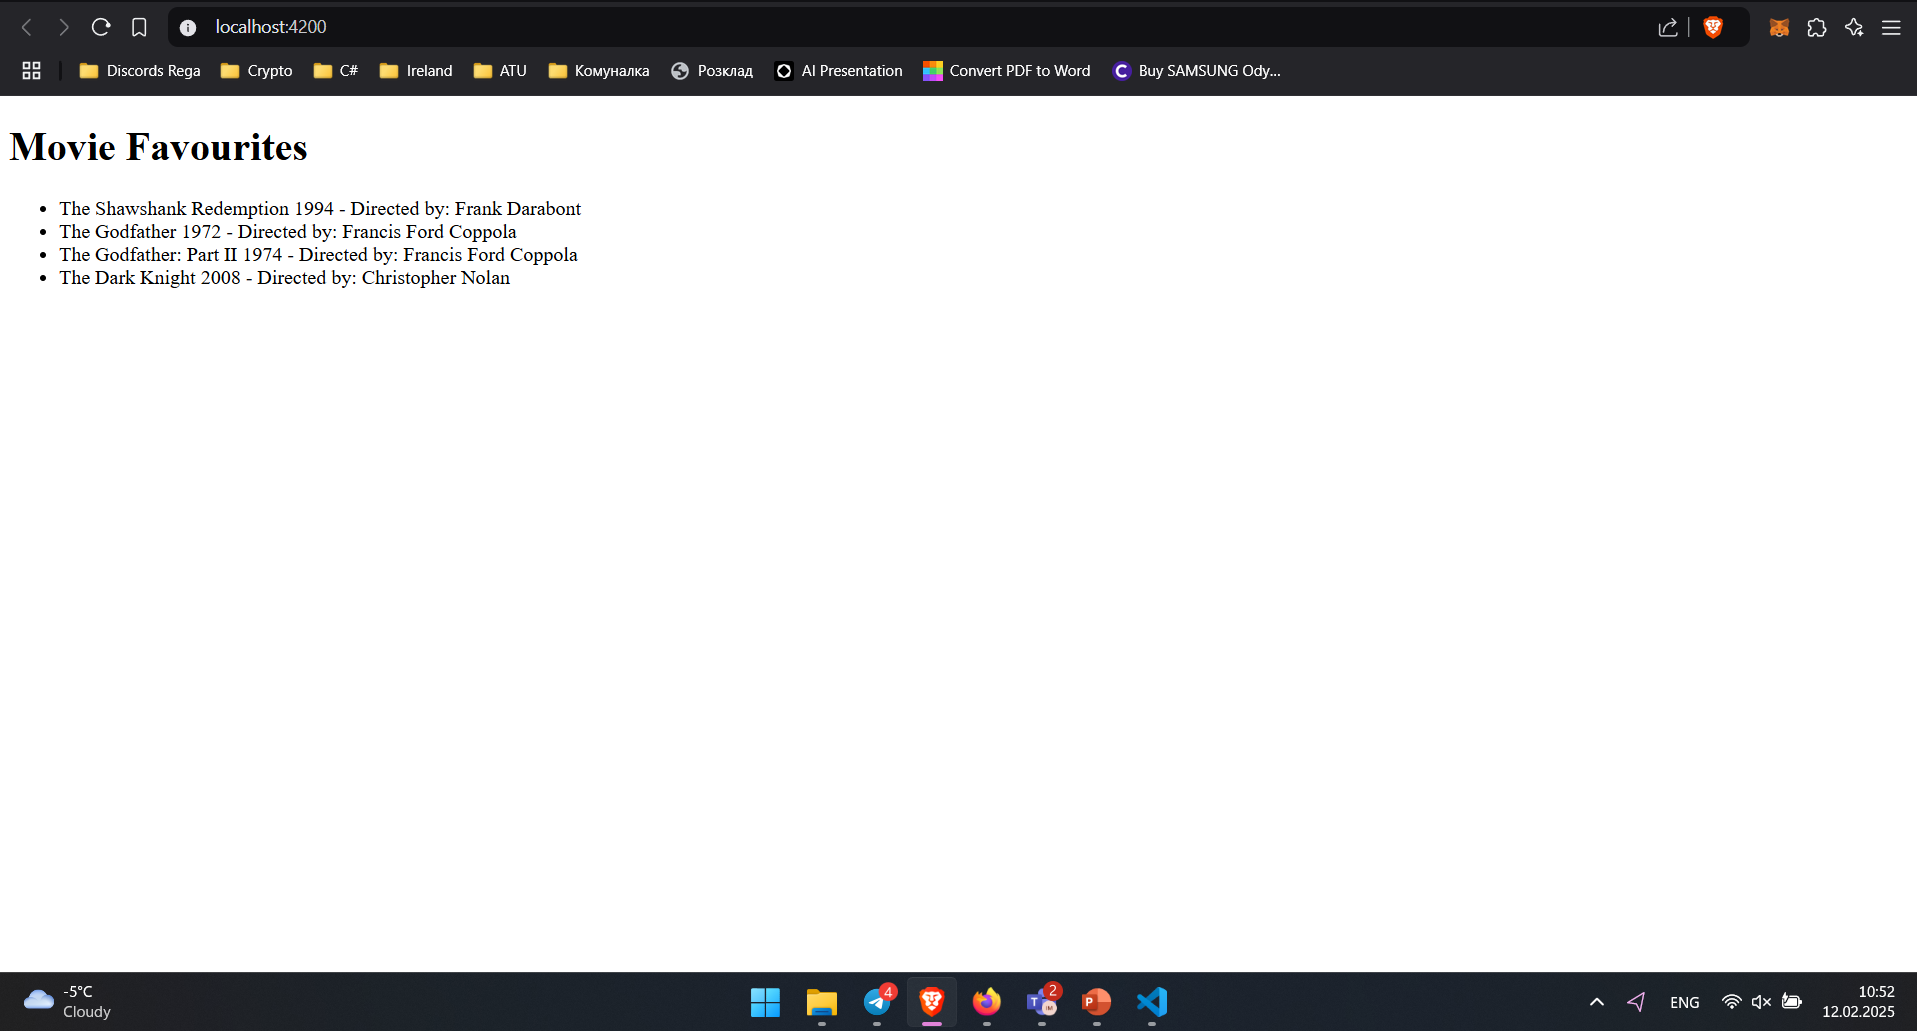
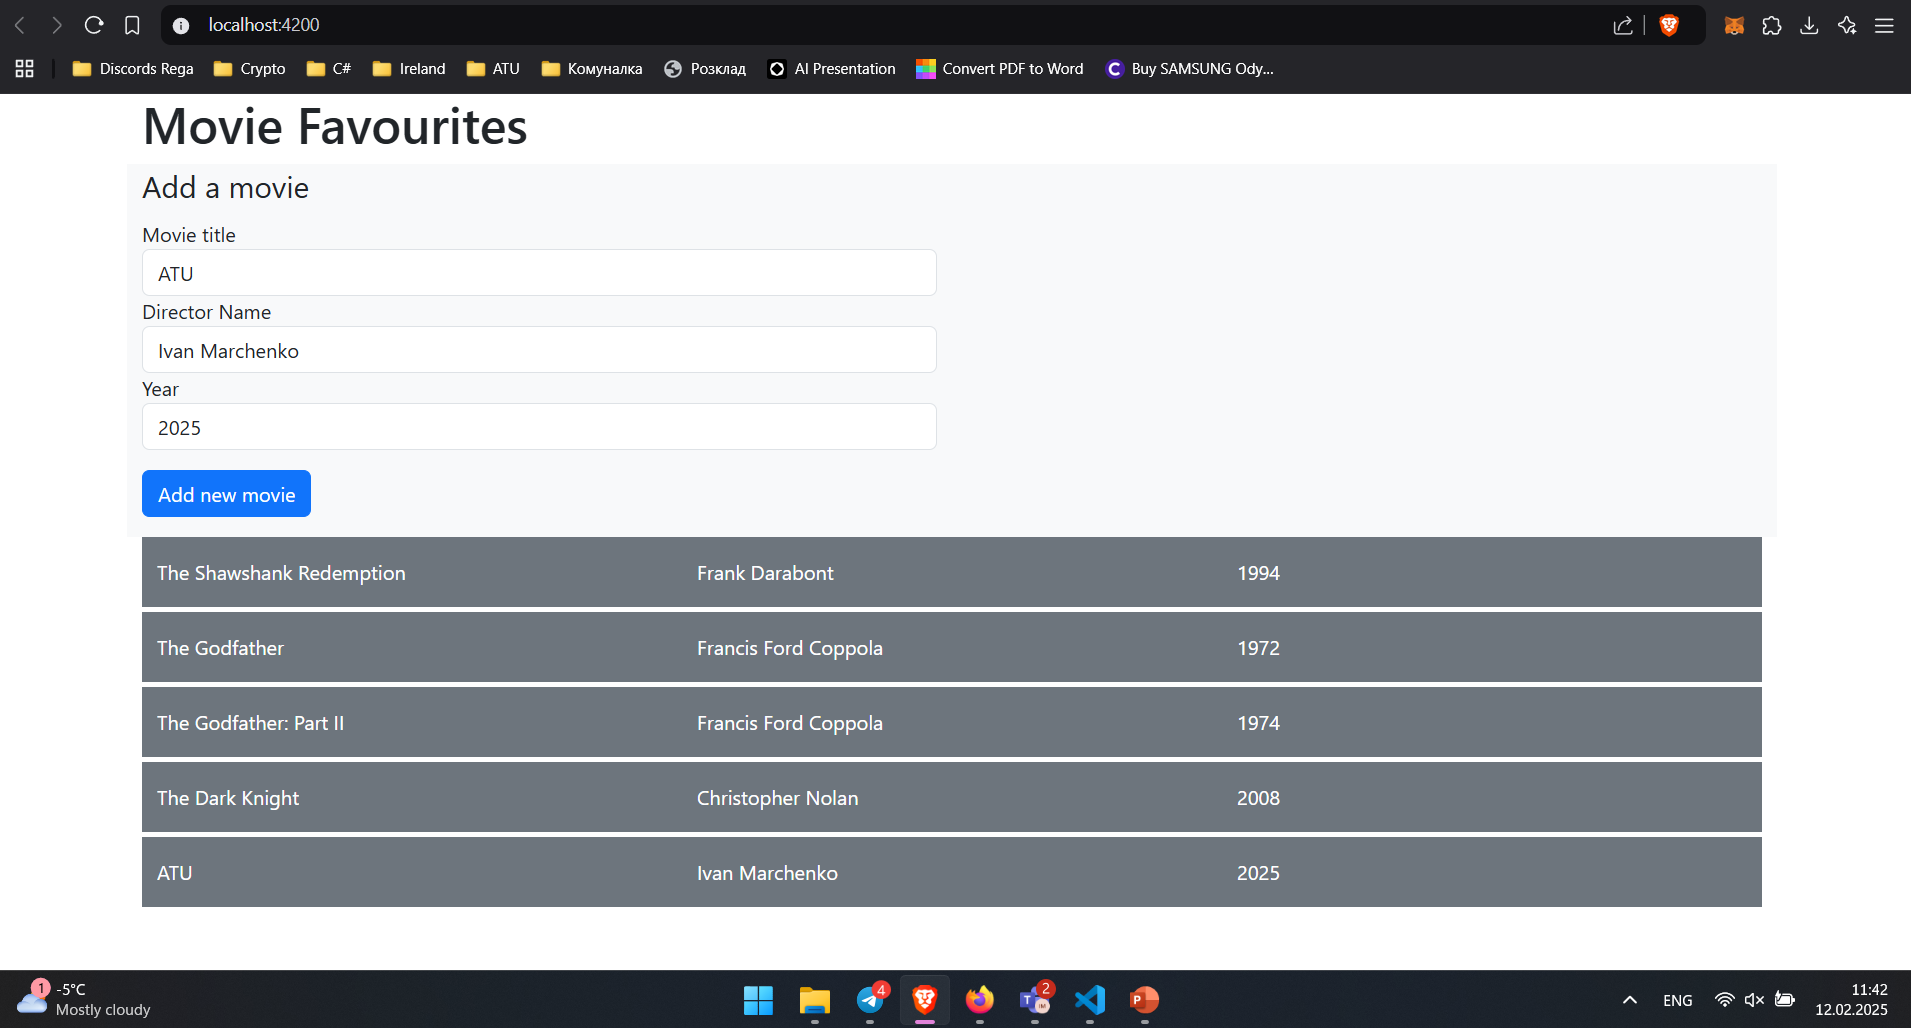
add bootstrap and implement movie management components

diff --git a/src/app/add-movie/add-movie.component.html b/src/app/add-movie/add-movie.component.html
@@ -1,0 +1,47 @@
+<div class="row bg-light">
+    <div class="col-sm-6">
+        <form action="">
+            <fieldset class="form-group">
+                <legend>Add a movie</legend>
+
+                <div class="form-group">
+                    <label for="title">Movie title</label>
+                    <input 
+                        name="title" 
+                        class="form-control"  
+                        placeholder="Enter movie title"
+                        #movietitle
+                    />
+                </div>
+
+                <div class="form-group">
+                    <label for="director">Director Name</label>
+                    <input 
+                        name="director" 
+                        class="form-control" 
+                        placeholder="Enter director name"
+                        #moviedirector
+                    />
+                </div>
+
+                <div class="form-group">
+                    <label for="year">Year</label>
+                    <input 
+                        name="year" 
+                        class="form-control" 
+                        placeholder="Enter year"
+                        #movieyear
+                    />
+                </div>
+
+                <div class="mt-3 mb-3">
+                    <button
+                        class="btn btn-primary"
+                        (click)="addNewMovie(movietitle, moviedirector, movieyear)">
+                        Add new movie
+                    </button>
+                </div>
+            </fieldset>
+        </form>
+    </div>
+</div>

diff --git a/src/app/movie.service.ts b/src/app/movie.service.ts
@@ -8,13 +8,17 @@ export class MovieService {
   constructor() { }
 
   movieList = [
-    { id: 1, title: 'The Shawshank Redemption', year: 1994, director: 'Frank Darabont' },
-    { id: 2, title: 'The Godfather', year: 1972, director: 'Francis Ford Coppola' },
-    { id: 3, title: 'The Godfather: Part II', year: 1974, director: 'Francis Ford Coppola' },
-    { id: 4, title: 'The Dark Knight', year: 2008, director: 'Christopher Nolan' },
+    {  title: 'The Shawshank Redemption', year: "1994", director: 'Frank Darabont' },
+    {  title: 'The Godfather', year: "1972", director: 'Francis Ford Coppola' },
+    {  title: 'The Godfather: Part II', year: "1974", director: 'Francis Ford Coppola' },
+    {  title: 'The Dark Knight', year: "2008", director: 'Christopher Nolan' },
   ];
 
   getMovies() {
     return this.movieList;
+  }
+
+  addMovie(movietitle: string, moviedirector: string, movieyear: string) {
+    this.movieList.push({ title: movietitle, director: moviedirector, year: movieyear });
   }
 }

diff --git a/src/app/list-movies/list-movies.component.spec.ts b/src/app/list-movies/list-movies.component.spec.ts
@@ -1,0 +1,23 @@
+import { ComponentFixture, TestBed } from '@angular/core/testing';
+
+import { ListMoviesComponent } from './list-movies.component';
+
+describe('ListMoviesComponent', () => {
+  let component: ListMoviesComponent;
+  let fixture: ComponentFixture<ListMoviesComponent>;
+
+  beforeEach(async () => {
+    await TestBed.configureTestingModule({
+      imports: [ListMoviesComponent]
+    })
+    .compileComponents();
+
+    fixture = TestBed.createComponent(ListMoviesComponent);
+    component = fixture.componentInstance;
+    fixture.detectChanges();
+  });
+
+  it('should create', () => {
+    expect(component).toBeTruthy();
+  });
+});

diff --git a/src/app/add-movie/add-movie.component.spec.ts b/src/app/add-movie/add-movie.component.spec.ts
@@ -1,0 +1,23 @@
+import { ComponentFixture, TestBed } from '@angular/core/testing';
+
+import { AddMovieComponent } from './add-movie.component';
+
+describe('AddMovieComponent', () => {
+  let component: AddMovieComponent;
+  let fixture: ComponentFixture<AddMovieComponent>;
+
+  beforeEach(async () => {
+    await TestBed.configureTestingModule({
+      imports: [AddMovieComponent]
+    })
+    .compileComponents();
+
+    fixture = TestBed.createComponent(AddMovieComponent);
+    component = fixture.componentInstance;
+    fixture.detectChanges();
+  });
+
+  it('should create', () => {
+    expect(component).toBeTruthy();
+  });
+});

diff --git a/src/app/app.component.ts b/src/app/app.component.ts
@@ -1,11 +1,14 @@
 import { Component } from '@angular/core';
 import { RouterOutlet } from '@angular/router';
 import { CommonModule } from '@angular/common';
+
 import { MovieService } from './movie.service';
+import { AddMovieComponent } from './add-movie/add-movie.component';
+import { ListMoviesComponent } from './list-movies/list-movies.component';
 
 @Component({
   selector: 'app-root',
-  imports: [RouterOutlet, CommonModule],
+  imports: [RouterOutlet, CommonModule, AddMovieComponent, ListMoviesComponent],
   templateUrl: './app.component.html',
   styleUrl: './app.component.css'
 })

diff --git a/src/app/add-movie/add-movie.component.ts b/src/app/add-movie/add-movie.component.ts
@@ -1,0 +1,17 @@
+import { Component } from '@angular/core';
+import { MovieService } from '../movie.service';
+
+@Component({
+  selector: 'app-add-movie',
+  imports: [],
+  templateUrl: './add-movie.component.html',
+  styleUrl: './add-movie.component.css'
+})
+export class AddMovieComponent {
+  constructor(private movieService: MovieService) {}
+
+  addNewMovie(movietitle:HTMLInputElement, moviedirector:HTMLInputElement, movieyear:HTMLInputElement):boolean {
+    this.movieService.addMovie(movietitle.value, moviedirector.value, movieyear.value);
+    return false;
+  }
+}

diff --git a/src/app/list-movies/list-movies.component.ts b/src/app/list-movies/list-movies.component.ts
@@ -1,0 +1,20 @@
+import { Component } from '@angular/core';
+import { CommonModule } from '@angular/common';
+import { MovieService } from '../movie.service';
+
+@Component({
+  selector: 'app-list-movies',
+  imports: [CommonModule],
+  templateUrl: './list-movies.component.html',
+  styleUrl: './list-movies.component.css'
+})
+export class ListMoviesComponent {
+  movies:any [] = [];
+
+  constructor(private movieService:MovieService) {}
+
+  ngOnInit() {
+    this.movies = this.movieService.getMovies();
+    console.log(this.movies);
+  }
+}

diff --git a/src/app/list-movies/list-movies.component.html b/src/app/list-movies/list-movies.component.html
@@ -1,0 +1,13 @@
+<div *ngFor="let movie of movies" class="container bg-secondary text-white pt-3 pb-3 mb-1">
+    <div class="row align-items">
+        <div class="col-sm-4">
+            {{movie.title}}
+        </div>
+        <div class="col-sm-4">
+            {{movie.director}}
+        </div>
+        <div class="col-sm-4">
+            {{movie.year}}
+        </div>
+    </div>
+</div>

diff --git a/src/app/app.component.html b/src/app/app.component.html
@@ -1,8 +1,6 @@
-<h1>Movie Favourites</h1>
-
-<ul>
-  <li *ngFor="let movie of movies">
-    {{movie.title}}
-    {{movie.year}} - Directed by: {{movie.director}}
-  </li>
-</ul>
+<div class="container">
+  <h1>Movie Favourites</h1>
+  
+  <app-add-movie></app-add-movie>
+  <app-list-movies></app-list-movies>
+</div>
